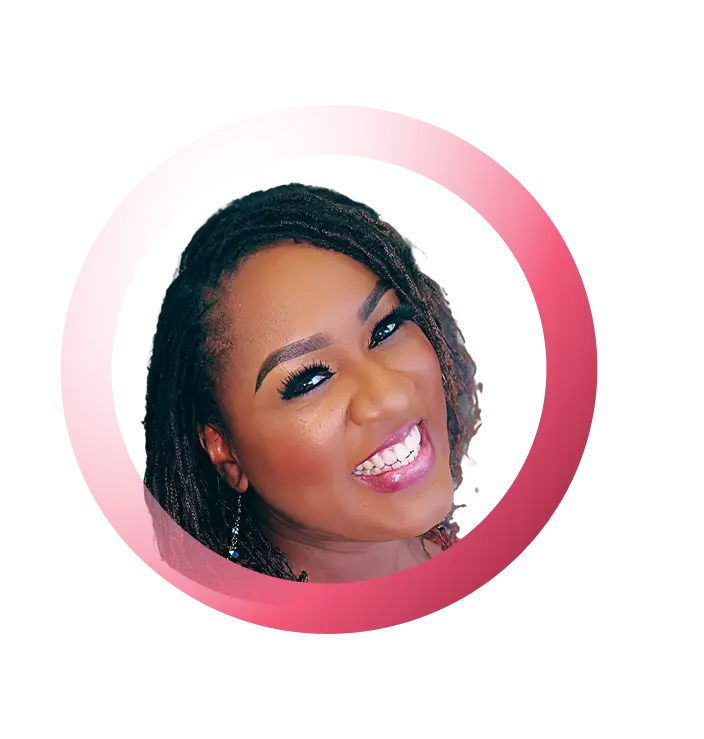
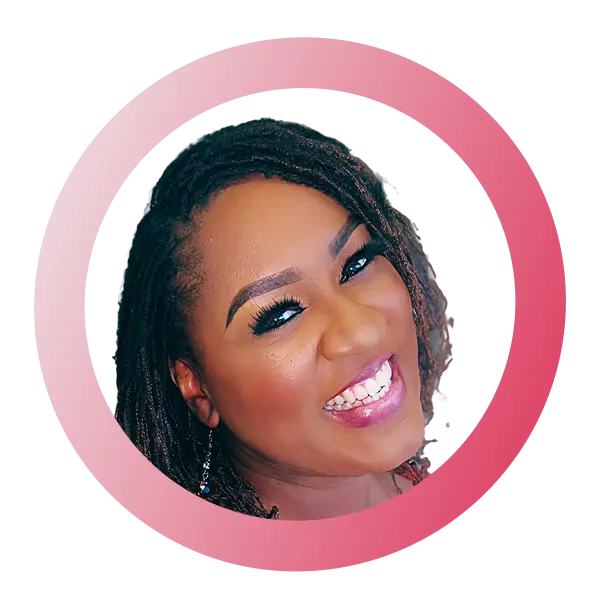
minor fixes

diff --git a/src/components/Footer.jsx b/src/components/Footer.jsx
@@ -87,7 +87,7 @@ export default function Footer() {
     };
   
     return (
-      <div className="relative bg-[#0E0E0E] min-h-[690px] md:min-h-[800px] overflow-hidden flex flex-col justify-between">
+      <div className="relative bg-[#0E0E0E] min-h-[760px] md:min-h-[800px] overflow-hidden flex flex-col justify-between">
         {/* Top Gradient Overlay */}
         <div className="absolute top-0 left-0 w-full h-[80px] md:h-[100px] bg-gradient-to-b from-[#0E0E0E] to-transparent z-30" />
   
@@ -135,7 +135,7 @@ export default function Footer() {
   
         {/* Text + CTA */}
         <div className="relative z-40 text-white mobile:max-ssm:mt-[150px] mt-[180px] md:mt-[242px] text-center px-4">
-          <div className="space-y-2 mobile:max-ssm:hidden text-xl sm:text-2xl md:text-3xl lg:text-4xl font-medium">
+          <div className="space-y-2 mobile:max-ssm:hidden ssm:text-3xl lg:text-4xl font-medium">
             <AnimatedText
               text="Join a community of over 5000+"
               highlight={{ start: 25, end: 30 }}
@@ -144,7 +144,7 @@ export default function Footer() {
             <AnimatedText text="from learning to earning." />
           </div>
 
-          <div className="space-y-1 ssm:hidden inter tracking-wide text-[25px] mt-2 font-medium text-center">
+          <div className="space-y-1 ssm:hidden inter tracking-wide text-[27px] mt-2 font-medium text-center">
                 <AnimatedText text="Join a community of over" delayIndex={0} />
 
                 <div className="flex items-center justify-center gap-2">
@@ -161,14 +161,15 @@ export default function Footer() {
   
           {/* CTA Button */}
           <motion.button
-            className="bg-[#fc4f7b] text-white py-2 sm:py-[11px] px-4 sm:px-6 rounded-full font-semibold flex items-center gap-2 sm:gap-3 mx-auto hover:shadow-[0_0_7px_#FF4F76] hover:opacity-90 mt-6 sm:mt-8 text-sm sm:text-base"
+            onClick={() => window.location.href = "https://proxy.nas.io/queenaritcircle"}
+            className="bg-[#fc4f7b] text-white py-[10px] ssm:max-sm:py-[13px] sm:py-[11px] px-4 ssm:px-6 rounded-full font-semibold flex items-center gap-2 sm:gap-3 mx-auto hover:shadow-[0_0_7px_#FF4F76] transition hover:opacity-90 mt-6 sm:mt-8 text-sm sm:text-base"
             initial={{ opacity: 0, y: 25 }}
             animate={{ opacity: 1, y: 0 }}
             transition={{ duration: 0.6, delay: 1.8, ease: [0.25, 1, 0.5, 1] }}
           >
-            <p className="text-sm sm:text-lg">Join the Circle Now</p>
-            <div className="bg-white p-[4px] sm:p-[6px] rounded-full">
-              <img className="h-4 sm:h-5" src={arrow} alt="arrow" />
+            <p className="text-[15px] ssm:max-sm:text-[20px] sm:text-lg">Join the Circle Now</p>
+            <div className="bg-white p-[5px] sm:p-[6px] rounded-full">
+              <img className="h-[18px] sm:h-5" src={arrow} alt="arrow" />
             </div>
           </motion.button>
         </div>
@@ -179,18 +180,18 @@ export default function Footer() {
             {/* Social icons */}
             <div className="flex mobile:max-ssm:gap-4 ssm:gap-3">
               <motion.a href="https://x.com/TheQueenArit" target="_blank">
-                <img className="cursor-pointer mobile:max-ssm:h-8 ssm:h-7" src={twitter} alt="Twitter" />
+                <img className="cursor-pointer mobile:max-sm:h-8 sm:h-7" src={twitter} alt="Twitter" />
               </motion.a>
               <motion.a href="https://instagram.com/" target="_blank">
-                <img className="cursor-pointer mobile:max-ssm:h-8 ssm:h-7" src={instagram} alt="Instagram" />
+                <img className="cursor-pointer mobile:max-sm:h-8 sm:h-7" src={instagram} alt="Instagram" />
               </motion.a>
               <motion.a href="https://linkedIn.com/" target="_blank">
-                <img className="cursor-pointer mobile:max-ssm:h-8 ssm:h-7" src={linkedin} alt="LinkedIn" />
+                <img className="cursor-pointer mobile:max-sm:h-8 sm:h-7" src={linkedin} alt="LinkedIn" />
               </motion.a>
             </div>
   
             {/* Nav links (with scroll functionality restored) */}
-            <div className="flex flex-wrap justify-center gap-4 sm:gap-5 mobile:max-ssm:text-[14px] text-[12px] sm:text-[13px] tracking-wider inter text-[#CECECE]">
+            <div className="flex flex-wrap justify-center gap-4 sm:gap-5 mobile:max-sm:mt-1 mobile:max-sm:text-[16px] text-[12px] sm:text-[13px] tracking-wider inter text-[#CECECE]">
               <div onClick={() => handleScroll("about-section", -20)} className="relative cursor-pointer group">
                 <AnimatedText text="About" className="inline-block text-[#BBBABA] group-hover:text-white transition" />
                 <span className="absolute left-0 -bottom-[1px] w-0 h-[2px] bg-[#fc4f7b] transition-all duration-300 group-hover:w-full"></span>
@@ -214,7 +215,7 @@ export default function Footer() {
   
             {/* Logo */}
             <motion.div>
-              <img className="h-12" src={Logo} alt="Logo" />
+              <img className="h-12 mobile:max-sm:h-14" src={Logo} alt="Logo" />
             </motion.div>
           </div>
   
@@ -232,12 +233,12 @@ export default function Footer() {
             <div className="flex flex-col items-center">
               <img
                 onClick={() => window.scrollTo({ top: 0, behavior: "smooth" })}
-                className="h-7 cursor-pointer rounded-full hover:shadow-[0_0_7px_#FF4F76] hover:scale-95 hover:opacity-90 transition"
+                className="mobile:max-sm:h-9 h-7 cursor-pointer rounded-full hover:shadow-[0_0_7px_#FF4F76] hover:scale-95 hover:opacity-90 transition"
                 src={backtotop}
                 alt="Back to top"
               />
               <div className="mt-[2px]">
-                <AnimatedText text="Back to top" className="text-[12px] text-[#CECECE]" />
+                <AnimatedText text="Back to top" className="text-[12px] mobile:max-sm:text-[14px] text-[#CECECE]" />
               </div>
             </div>
           </div>

diff --git a/src/pages/LandingPage.jsx b/src/pages/LandingPage.jsx
@@ -99,7 +99,7 @@ export default function LandingPage() {
                   </p>
                 )
               )}
-              <button className="bg-[#fc4f7b] hover:shadow-[0_0_7px_#FF4F76] cursor-pointer hoverEffect transition text-white xl:text-[20px] flex justify-center py-2 xl:pt-3 xl:pb-4 px-7 rounded-full font-semibold hover:opacity-90">
+              <button onClick={() => window.location.href = "https://proxy.nas.io/queenaritcircle"} className="bg-[#fc4f7b] hover:shadow-[0_0_7px_#FF4F76] cursor-pointer hoverEffect transition text-white xl:text-[20px] flex justify-center py-2 xl:pt-3 xl:pb-4 px-7 rounded-full font-semibold hover:opacity-90">
                 Join it’s Free
               </button>
             </div>
@@ -136,7 +136,7 @@ export default function LandingPage() {
                     </ScrollLink>
                   ))}
 
-                  <button className="bg-[#fc4f7b] flex items-center text-white py-2 px-6 rounded-full font-semibold hover:opacity-90 transition mx-auto">
+                  <button onClick={() => window.location.href = "https://proxy.nas.io/queenaritcircle"} className="bg-[#fc4f7b] flex items-center text-white py-2 px-6 rounded-full font-semibold hover:opacity-90 transition mx-auto">
                     Join it’s Free
                   </button>
                 </div>
@@ -163,7 +163,7 @@ export default function LandingPage() {
 
             {/* Mobile top image */}
             <img
-              className="h-auto max-h-[250px] lg:hidden lg:rotate-0"
+              className="h-auto mobile:max-lg:max-h-full lg:hidden md:w-full lg:rotate-0"
               src={xsmobiletopimg}
               alt="left hero"
             />
@@ -254,14 +254,15 @@ export default function LandingPage() {
 
             {/* CTA Button */}
             <motion.button
-              className="bg-[#fc4f7b] hover:shadow-[0_0_7px_#FF4F76] text-white py-2 px-7 rounded-full font-semibold hover:opacity-90 flex items-center gap-3 mx-auto mt-4"
+              onClick={() => window.location.href = "https://proxy.nas.io/queenaritcircle"}
+              className="bg-[#fc4f7b] hover:shadow-[0_0_7px_#FF4F76] transition text-white py-2 px-7 rounded-full font-semibold hover:opacity-90 flex items-center gap-3 mx-auto mt-4"
               initial={{ opacity: 0, y: 25 }}
               animate={{ opacity: 1, y: 0 }}
-              transition={{ duration: 0.5, delay: 1.2, ease: [0.25, 1, 0.5, 1] }}
+              transition={{ duration: 0.5, delay: 0.3, ease: [0.25, 1, 0.5, 1] }}
               style={{ willChange: "transform, opacity" }}
             >
               <p className="text-lg">Join the Circle Now</p>
-              <div className="bg-white p-2 rounded-full">
+              <div onClick={() => window.location.href = "https://proxy.nas.io/queenaritcircle"} className="bg-white p-2 rounded-full">
                 <img className="h-6" src={arrow} alt="arrow" />
               </div>
             </motion.button>

diff --git a/src/components/About.jsx b/src/components/About.jsx
@@ -1,7 +1,5 @@
 import React, { useRef } from "react";
 import { motion, useInView } from "framer-motion";
-import glow from "../assets/inner glow.webp";
-import mobileglow from "../assets/mobilesideglow.webp";
 import queenarit from "../assets/queenarit.webp";
 import arrow from "../assets/arrow-right.webp";
 
@@ -30,7 +28,7 @@ export default function Section() {
                  mobile:max-lg:pb-28 lg:pb-20"
     >
      {/* Top Gradient Overlay */}
-    <div className="absolute top-0 left-0 w-full h-[229px] bg-gradient-to-b from-[#0E0E0E] to-transparent z-10" />
+    <div className="absolute top-0 left-0 w-full h-[29px] bg-gradient-to-b from-[#0E0E0E] to-transparent z-10" />
 
     {/* Bottom Gradient Overlay */}
     <div className="absolute bottom-0 left-0 w-full h-[129px] bg-gradient-to-t from-[#0E0E0E] to-transparent z-10" />
@@ -89,10 +87,10 @@ export default function Section() {
           initial="hidden"
           animate={isInView ? "show" : "hidden"}
           custom={2}
-          className="mobile:max-xxm:mt-20 mobile:max-lg:ml-[5px] mobile:max-lg:-mr-4"
+          className="mobile:max-xxm:mt-24 xxm:max-lg:mt-5 mobile:max-lg:mb-4"
         >
           <img
-            className="xxm:h-[450px] mobile:max-xxm:h-[400px]"
+            className="xxm:h-[450px] mobile:max-xxm:h-[380px]"
             src={queenarit}
             alt=""
           />
@@ -155,6 +153,7 @@ export default function Section() {
                 initial={{ opacity: 0, y: 20 }}
                 animate={isInView ? { opacity: 1, y: 0 } : {}}
                 transition={{ duration: 0.6, ease: "easeOut", delay: 0.9 }}
+                onClick={() => window.location.href = "https://proxy.nas.io/queenaritcircle"}
                 className="bg-[#fc4f7b] hover:shadow-[0_0_7px_#FF4F76] cursor-pointer hoverEffect 
                             transition text-[#110D0D] mobile:max-xsm:py-[10px] xsm:max-lg:py-4 lg:py-2 
                             mobile:max-xsm:px-8 xsm:max-lg:px-9 lg:px-7 rounded-full font-semibold 

diff --git a/src/components/Questions.jsx b/src/components/Questions.jsx
@@ -19,7 +19,7 @@ export default function Questions({ question, arrowDown, answer, arrowUp }) {
         </p>
 
         {isOpen ? (
-          <div className="border border-[#FA3E67] mobile:max-xxm:h-8 mobile:max-xxm:w-8 h-9 w-9 flex items-center justify-center rounded-full">
+          <div className="border hover:shadow-[0_0_8px_#FA3E67] transition border-[#FA3E67] mobile:max-xxm:h-8 mobile:max-xxm:w-8 h-9 w-9 flex items-center justify-center rounded-full">
             <button
               onClick={closePopup}
               className="flex items-center justify-center"
@@ -32,7 +32,7 @@ export default function Questions({ question, arrowDown, answer, arrowUp }) {
             </button>
           </div>
         ) : (
-          <div className="border border-[#707070] h-9 w-9 mobile:max-xxm:h-8 mobile:max-xxm:w-8 flex items-center justify-center rounded-full">
+          <div className="border hover:shadow-[0_0_8px_#707070] transition border-[#707070] h-9 w-9 mobile:max-xxm:h-8 mobile:max-xxm:w-8 flex items-center justify-center rounded-full">
             <button
               onClick={openPopup}
               className="flex items-center justify-center"

diff --git a/src/components/TestimonialCarousel.jsx b/src/components/TestimonialCarousel.jsx
@@ -307,14 +307,14 @@ export default function TestimonialCarousel() {
       <div className="absolute bottom-6 left-1/2 -translate-x-1/2 flex space-x-36">
         <button
           onClick={prevSlide}
-          className="w-11 h-11 flex items-center justify-center rounded-2xl border border-[#292929] shadow-[0_3px_8px_#101010] bg-[#161616] hover:bg-[#1E1E1E]"
+          className="w-11 h-11 flex items-center justify-center rounded-2xl hover:shadow-[0_0_8px_#292929] transition border border-[#292929] shadow-[0_3px_8px_#101010] bg-[#161616]"
         >
           <img src={previousarrow} alt="previous" />
         </button>
 
         <button
           onClick={nextSlide}
-          className="w-11 h-11 flex items-center justify-center rounded-2xl border border-[#292929] shadow-[0_3px_8px_#101010] bg-[#161616] hover:bg-[#1E1E1E]"
+          className="w-11 h-11 flex items-center justify-center rounded-2xl hover:shadow-[0_0_8px_#292929] transition border border-[#292929] shadow-[0_3px_8px_#101010] bg-[#161616]"
         >
           <img src={nextarrow} alt="next" />
         </button>

diff --git a/src/components/FAQ.jsx b/src/components/FAQ.jsx
@@ -16,7 +16,7 @@ export default function FAQ() {
       <div className="absolute top-0 left-0 w-full h-[229px] bg-gradient-to-b from-[#0E0E0E] to-transparent z-10" />
 
       {/* Bottom Gradient Overlay */}
-      <div className="absolute bottom-0 left-0 w-full h-[50px] bg-gradient-to-t from-[#0E0E0E] to-transparent z-10" />
+      <div className="absolute bottom-0 left-0 w-full ssm:max-lg:h-[150px] h-[50px] bg-gradient-to-t from-[#0E0E0E] to-transparent z-10" />
 
       {/* Background Glow (Desktop) */}
       <div
